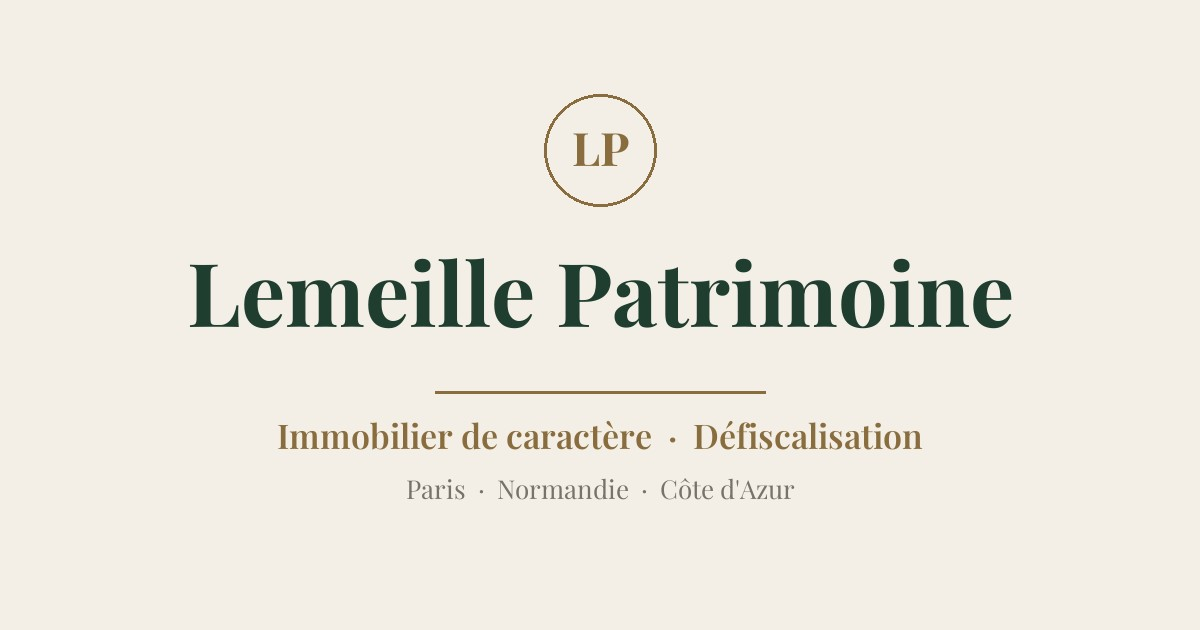
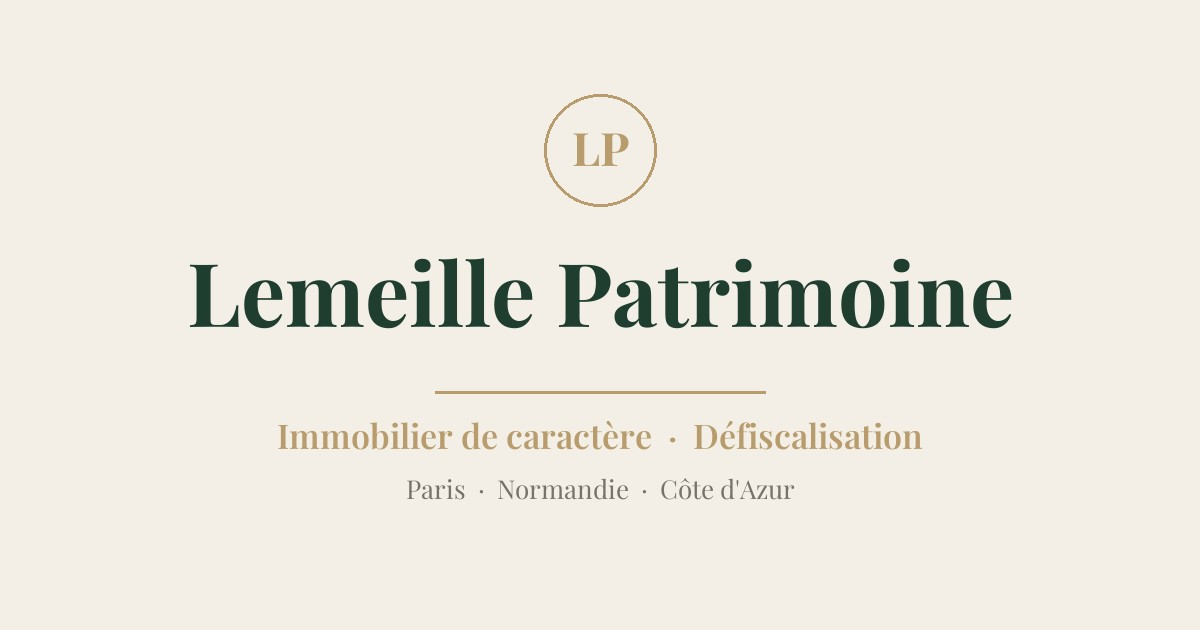
Marque : or unifié sur #B89C6D (fin des deux tons d'or)
Aligne l'or profond #8A6D3F sur l'or clair canonique #B89C6D (token
Tailwind) partout : en-tête, monogramme, avis, CRM, registre, page de
signature, emails, et l'or des PDF (mandat, fiche bien, guides). Image
sociale og-image régénérée avec l'or unifié, cache ?v=3 -> ?v=4.

diff --git a/app/admin/crm/page.tsx b/app/admin/crm/page.tsx
@@ -816,7 +816,7 @@ export default function Page(){
                       {(lead.category || 'immobilier') === 'immobilier' && (lead.role || 'ACHETEUR') === 'VENDEUR' && (
                         <button
                           onClick={() => openMandatPanel(lead)}
-                          className="btn text-xs flex items-center gap-1 px-2 py-1 hover:bg-amber-50 text-[#8A6D3F]"
+                          className="btn text-xs flex items-center gap-1 px-2 py-1 hover:bg-amber-50 text-[#B89C6D]"
                           data-testid={`button-mandat-${lead.id}`}
                           title="Mandat & bien du vendeur"
                         >
@@ -856,7 +856,7 @@ export default function Page(){
                   {/* Biens reliés au vendeur (résumé permanent) */}
                   {(lead.category || 'immobilier') === 'immobilier' && (lead.role || 'ACHETEUR') === 'VENDEUR' && biensOfSeller(lead.id).length > 0 && (
                     <div className="mb-3 text-sm">
-                      <span className="font-medium text-[#8A6D3F]">🏠 Biens en vente ({biensOfSeller(lead.id).length}) :</span>{' '}
+                      <span className="font-medium text-[#B89C6D]">🏠 Biens en vente ({biensOfSeller(lead.id).length}) :</span>{' '}
                       {biensOfSeller(lead.id).map((b: any, i: number) => (
                         <span key={b.id}>
                           {i > 0 && ', '}
@@ -870,7 +870,7 @@ export default function Page(){
                   {/* Panneau vendeur : éléments du mandat + création du bien + liaison */}
                   {mandatLeadId === lead.id && (
                     <div className="mb-3 p-3 rounded border border-amber-200 bg-amber-50" data-testid={`mandat-picker-${lead.id}`}>
-                      <label className="block text-xs font-semibold mb-2 flex items-center gap-1 text-[#8A6D3F]">
+                      <label className="block text-xs font-semibold mb-2 flex items-center gap-1 text-[#B89C6D]">
                         <FileText className="w-3 h-3" />
                         Éléments du mandat — création du bien
                       </label>
@@ -936,7 +936,7 @@ export default function Page(){
                             {biensOfSeller(lead.id).map((b: any) => (
                               <div key={b.id} className="flex items-center gap-2 text-sm">
                                 <a href={`/admin/contenu/biens?edit=${b.id}`} className="underline flex-1">{b.title || b.id}{b.city ? ` — ${b.city}` : ''}</a>
-                                <a href={`/api/properties/${b.id}/mandat/pdf`} target="_blank" rel="noopener noreferrer" className="text-[#8A6D3F]" title="Mandat PDF"><Download className="w-4 h-4" /></a>
+                                <a href={`/api/properties/${b.id}/mandat/pdf`} target="_blank" rel="noopener noreferrer" className="text-[#B89C6D]" title="Mandat PDF"><Download className="w-4 h-4" /></a>
                                 <button onClick={() => unlinkBien(b.id, lead.id)} className="text-red-600" title="Délier"><X className="w-4 h-4" /></button>
                               </div>
                             ))}

diff --git a/app/mandat/signer/[token]/page.tsx b/app/mandat/signer/[token]/page.tsx
@@ -122,7 +122,7 @@ export default function SignMandatPage() {
       <div style={{ maxWidth: 640, margin: "0 auto" }}>
         <div style={{ textAlign: "center", marginBottom: 20 }}>
           <div style={{ fontFamily: "Georgia, serif", fontSize: 26, color: "#1F3B2C", letterSpacing: 1 }}>Lemeille Patrimoine</div>
-          <div style={{ color: "#8A6D3F", fontSize: 13, marginTop: 2 }}>Signature électronique du mandat de vente</div>
+          <div style={{ color: "#B89C6D", fontSize: 13, marginTop: 2 }}>Signature électronique du mandat de vente</div>
         </div>
         <div style={{ background: "#fff", borderRadius: 14, boxShadow: "0 2px 16px rgba(0,0,0,0.06)", padding: 24 }}>
           {children}
@@ -164,7 +164,7 @@ export default function SignMandatPage() {
       <p style={{ color: "#555", fontSize: 14, marginBottom: 16 }}>Mandataire : NOVUS CAPITAL SAS (Arthur Lemeille).</p>
 
       <a href={`/api/mandat/sign/${token}/pdf`} target="_blank" rel="noopener noreferrer"
-        style={{ display: "inline-block", marginBottom: 18, color: "#8A6D3F", fontWeight: 600, textDecoration: "underline", fontSize: 14 }}>
+        style={{ display: "inline-block", marginBottom: 18, color: "#B89C6D", fontWeight: 600, textDecoration: "underline", fontSize: 14 }}>
         📄 Lire le mandat complet avant de signer
       </a>
 
@@ -194,7 +194,7 @@ export default function SignMandatPage() {
       </div>
       <div style={{ display: "flex", justifyContent: "space-between", alignItems: "center", marginTop: 6, marginBottom: 16 }}>
         <span style={{ fontSize: 12, color: "#777" }}>Mention : « Bon pour mandat »</span>
-        <button type="button" onClick={clearCanvas} style={{ fontSize: 13, color: "#8A6D3F", background: "none", border: "none", cursor: "pointer", textDecoration: "underline" }}>Effacer</button>
+        <button type="button" onClick={clearCanvas} style={{ fontSize: 13, color: "#B89C6D", background: "none", border: "none", cursor: "pointer", textDecoration: "underline" }}>Effacer</button>
       </div>
 
       <label style={{ display: "flex", alignItems: "flex-start", gap: 8, fontSize: 13, color: "#444", marginBottom: 18 }}>
@@ -205,7 +205,7 @@ export default function SignMandatPage() {
       {error && <p style={{ color: "#b00", fontSize: 13, marginBottom: 12 }}>{error}</p>}
 
       <button type="button" onClick={submit} disabled={submitting}
-        style={{ width: "100%", padding: "12px", background: "#8A6D3F", color: "#fff", border: "none", borderRadius: 10, fontSize: 15, fontWeight: 600, cursor: submitting ? "default" : "pointer", opacity: submitting ? 0.7 : 1 }}>
+        style={{ width: "100%", padding: "12px", background: "#B89C6D", color: "#fff", border: "none", borderRadius: 10, fontSize: 15, fontWeight: 600, cursor: submitting ? "default" : "pointer", opacity: submitting ? 0.7 : 1 }}>
         {submitting ? "Signature en cours…" : "Signer le mandat"}
       </button>
     </Shell>

diff --git a/components/GoogleReviews.tsx b/components/GoogleReviews.tsx
@@ -29,8 +29,8 @@ export default function GoogleReviews() {
       <div className="card p-6">
         <div className="flex items-center gap-3 mb-4">
           <svg xmlns="http://www.w3.org/2000/svg" width="36" height="36" viewBox="0 0 64 64" role="img" aria-label="Lemeille Patrimoine">
-            <circle cx="32" cy="32" r="26" fill="none" stroke="#8A6D3F" strokeWidth="2"/>
-            <text x="32" y="39" style={{ fontFamily: 'Georgia, "Times New Roman", Times, serif' }} fontSize="22" textAnchor="middle" fill="#8A6D3F">LP</text>
+            <circle cx="32" cy="32" r="26" fill="none" stroke="#B89C6D" strokeWidth="2"/>
+            <text x="32" y="39" style={{ fontFamily: 'Georgia, "Times New Roman", Times, serif' }} fontSize="22" textAnchor="middle" fill="#B89C6D">LP</text>
           </svg>
           <div>
             <div className="luxe text-xl">Avis Google</div>
@@ -46,8 +46,8 @@ export default function GoogleReviews() {
       <div className="flex items-center justify-between flex-wrap gap-3 mb-4">
         <div className="flex items-center gap-3">
           <svg xmlns="http://www.w3.org/2000/svg" width="36" height="36" viewBox="0 0 64 64" role="img" aria-label="Lemeille Patrimoine">
-            <circle cx="32" cy="32" r="26" fill="none" stroke="#8A6D3F" strokeWidth="2"/>
-            <text x="32" y="39" style={{ fontFamily: 'Georgia, "Times New Roman", Times, serif' }} fontSize="22" textAnchor="middle" fill="#8A6D3F">LP</text>
+            <circle cx="32" cy="32" r="26" fill="none" stroke="#B89C6D" strokeWidth="2"/>
+            <text x="32" y="39" style={{ fontFamily: 'Georgia, "Times New Roman", Times, serif' }} fontSize="22" textAnchor="middle" fill="#B89C6D">LP</text>
           </svg>
           <div>
             <div className="luxe text-xl">Avis Google</div>

diff --git a/app/api/properties/[id]/mandat/sign-request/route.ts b/app/api/properties/[id]/mandat/sign-request/route.ts
@@ -14,11 +14,11 @@ async function sendSignInvite(to: string, name: string, url: string, mandateNumb
     const from = process.env.RESEND_FROM || 'Lemeille Patrimoine <onboarding@resend.dev>';
     const html = `
       <div style="font-family:Arial,sans-serif;max-width:600px;margin:0 auto;color:#1F3B2C">
-        <h2 style="color:#8A6D3F">Signature de votre mandat de vente</h2>
+        <h2 style="color:#B89C6D">Signature de votre mandat de vente</h2>
         <p>Bonjour ${name || ''},</p>
         <p>Votre mandat de vente${mandateNumber ? ` (N° ${mandateNumber})` : ''} est prêt à être signé. Vous pouvez le consulter et le signer en ligne, en quelques secondes :</p>
         <p style="text-align:center;margin:28px 0">
-          <a href="${url}" style="background:#8A6D3F;color:#fff;padding:12px 24px;border-radius:8px;text-decoration:none;font-weight:bold">Lire et signer le mandat</a>
+          <a href="${url}" style="background:#B89C6D;color:#fff;padding:12px 24px;border-radius:8px;text-decoration:none;font-weight:bold">Lire et signer le mandat</a>
         </p>
         <p style="font-size:13px;color:#555">Ou copiez ce lien : <br>${url}</p>
         <p style="font-size:12px;color:#999;margin-top:24px">NOVUS CAPITAL SAS — Arthur Lemeille — CPI 7606 2024 000 000 038 — 50 rue de la Garenne, 76130 Mont-Saint-Aignan.</p>

diff --git a/app/api/properties/route.ts b/app/api/properties/route.ts
@@ -29,10 +29,10 @@ async function notifySubscribers(item: any) {
     const price = item.price ? Number(item.price).toLocaleString('fr-FR') + ' €' : '';
     const html = `
       <div style="font-family:Arial,sans-serif;max-width:600px;margin:0 auto;color:#1F3B2C">
-        <h2 style="color:#8A6D3F">Nouveau bien — Lemeille Patrimoine</h2>
+        <h2 style="color:#B89C6D">Nouveau bien — Lemeille Patrimoine</h2>
         <h3 style="margin:8px 0">${item.title || 'Bien'}</h3>
         <p style="color:#555">${item.city || ''}${region ? ' · ' + region : ''}${price ? ' — <strong>' + price + '</strong>' : ''}</p>
-        <p><a href="${url}" style="background:#8A6D3F;color:#fff;padding:10px 18px;border-radius:8px;text-decoration:none">Découvrir le bien</a></p>
+        <p><a href="${url}" style="background:#B89C6D;color:#fff;padding:10px 18px;border-radius:8px;text-decoration:none">Découvrir le bien</a></p>
         <p style="font-size:12px;color:#999;margin-top:24px">Vous recevez cet email car vous êtes inscrit à notre alerte nouveaux biens.</p>
       </div>`;
 

diff --git a/app/layout.tsx b/app/layout.tsx
@@ -33,7 +33,7 @@ export const metadata: Metadata = {
     title: 'Lemeille Patrimoine — Immobilier de caractère & défiscalisation',
     description: "Agence spécialisée dans l'immobilier de caractère et la défiscalisation à Paris, en Normandie et sur la Côte d'Azur.",
     images: [{
-      url: '/og-image.jpg?v=3',
+      url: '/og-image.jpg?v=4',
       width: 1200,
       height: 630,
       alt: 'Lemeille Patrimoine — Immobilier de caractère & défiscalisation'
@@ -43,7 +43,7 @@ export const metadata: Metadata = {
     card: 'summary_large_image',
     title: 'Lemeille Patrimoine — Immobilier & défiscalisation',
     description: "Immobilier de caractère & défiscalisation - Paris, Normandie, Côte d'Azur",
-    images: ['/og-image.jpg?v=3'],
+    images: ['/og-image.jpg?v=4'],
   },
   metadataBase: new URL(process.env.NEXT_PUBLIC_SITE_URL || 'https://lemeillepatrimoine.com'),
 };

diff --git a/components/Header.tsx b/components/Header.tsx
@@ -15,8 +15,8 @@ export function Header(){
             <defs>
               <style>{`.serif { font-family: Georgia, "Times New Roman", Times, serif; } .logo-text { display: none; } @media (min-width: 768px) { .logo-text { display: block; } }`}</style>
             </defs>
-            <circle cx="32" cy="32" r="26" fill="none" stroke="#8A6D3F" strokeWidth="2"/>
-            <text x="32" y="39" className="serif" fontSize="22" textAnchor="middle" fill="#8A6D3F">LP</text>
+            <circle cx="32" cy="32" r="26" fill="none" stroke="#B89C6D" strokeWidth="2"/>
+            <text x="32" y="39" className="serif" fontSize="22" textAnchor="middle" fill="#B89C6D">LP</text>
             <text x="72" y="40" className="serif logo-text" fontSize="22" fill="#1F3B2C" letterSpacing=".4">
               Lemeille Patrimoine
             </text>

diff --git a/app/admin/mandats/page.tsx b/app/admin/mandats/page.tsx
@@ -164,7 +164,7 @@ export default function Page() {
                       </td>
                       <td className="px-3 py-2 no-print">
                         <div className="flex gap-2">
-                          <a href={`/api/properties/${m.id}/mandat/pdf`} target="_blank" rel="noopener noreferrer" title="Mandat PDF" className="text-[#8A6D3F] hover:opacity-70">
+                          <a href={`/api/properties/${m.id}/mandat/pdf`} target="_blank" rel="noopener noreferrer" title="Mandat PDF" className="text-[#B89C6D] hover:opacity-70">
                             <FileText className="w-4 h-4" />
                           </a>
                           <a href={`/admin/contenu/biens?edit=${m.id}`} title="Ouvrir le bien" className="text-gray-500 hover:opacity-70">

diff --git a/app/api/leads/route.ts b/app/api/leads/route.ts
@@ -91,7 +91,7 @@ function formatDefiscEmail(payload: any): string {
   const eur = (n: any) => (Number(n) || 0).toLocaleString('fr-FR') + ' €';
   return `
     <div style="font-family:Arial,sans-serif;max-width:600px;margin:0 auto;color:#1F3B2C">
-      <h2 style="color:#8A6D3F">💶 Nouvelle simulation de défiscalisation</h2>
+      <h2 style="color:#B89C6D">💶 Nouvelle simulation de défiscalisation</h2>
       <p><strong>${payload.firstName || ''} ${payload.lastName || ''}</strong></p>
       <p>Email : <a href="mailto:${payload.email || ''}">${payload.email || '—'}</a><br/>
          Téléphone : ${payload.phone || '—'}</p>

diff --git a/app/partenaires/page.tsx b/app/partenaires/page.tsx
@@ -76,7 +76,7 @@ export default function Page() {
             <div key={p.name} className="card p-6 flex flex-col">
               <div className="flex items-center gap-4 mb-4">
                 <div className="shrink-0 w-16 h-16 rounded-full border-2 border-[#B89C6D] flex items-center justify-center">
-                  <span className="luxe text-xl text-[#8A6D3F]">{initials(p.name)}</span>
+                  <span className="luxe text-xl text-[#B89C6D]">{initials(p.name)}</span>
                 </div>
                 <div>
                   <h2 className="luxe text-xl leading-tight">{p.name}</h2>

diff --git a/app/api/properties/[id]/pdf/route.ts b/app/api/properties/[id]/pdf/route.ts
@@ -15,7 +15,7 @@ export async function GET(_req: Request, { params }: { params: Promise<{ id: str
     const font = await pdfDoc.embedFont(StandardFonts.Helvetica);
     const fontBold = await pdfDoc.embedFont(StandardFonts.HelveticaBold);
 
-    const gold = rgb(0.541, 0.427, 0.247);   // #8A6D3F
+    const gold = rgb(0.722, 0.612, 0.427);   // #B89C6D
     const navy = rgb(0.122, 0.231, 0.173);   // #1F3B2C
     const darkText = rgb(0.15, 0.15, 0.15);
     const lightText = rgb(0.45, 0.45, 0.45);

diff --git a/app/api/guides/[slug]/pdf/route.ts b/app/api/guides/[slug]/pdf/route.ts
@@ -13,7 +13,7 @@ export async function GET(_req: Request, { params }: { params: Promise<{ slug: s
     const font = await pdfDoc.embedFont(StandardFonts.Helvetica);
     const fontBold = await pdfDoc.embedFont(StandardFonts.HelveticaBold);
 
-    const gold = rgb(0.541, 0.427, 0.247);
+    const gold = rgb(0.722, 0.612, 0.427);
     const navy = rgb(0.122, 0.231, 0.173);
     const darkText = rgb(0.15, 0.15, 0.15);
     const lightText = rgb(0.45, 0.45, 0.45);
